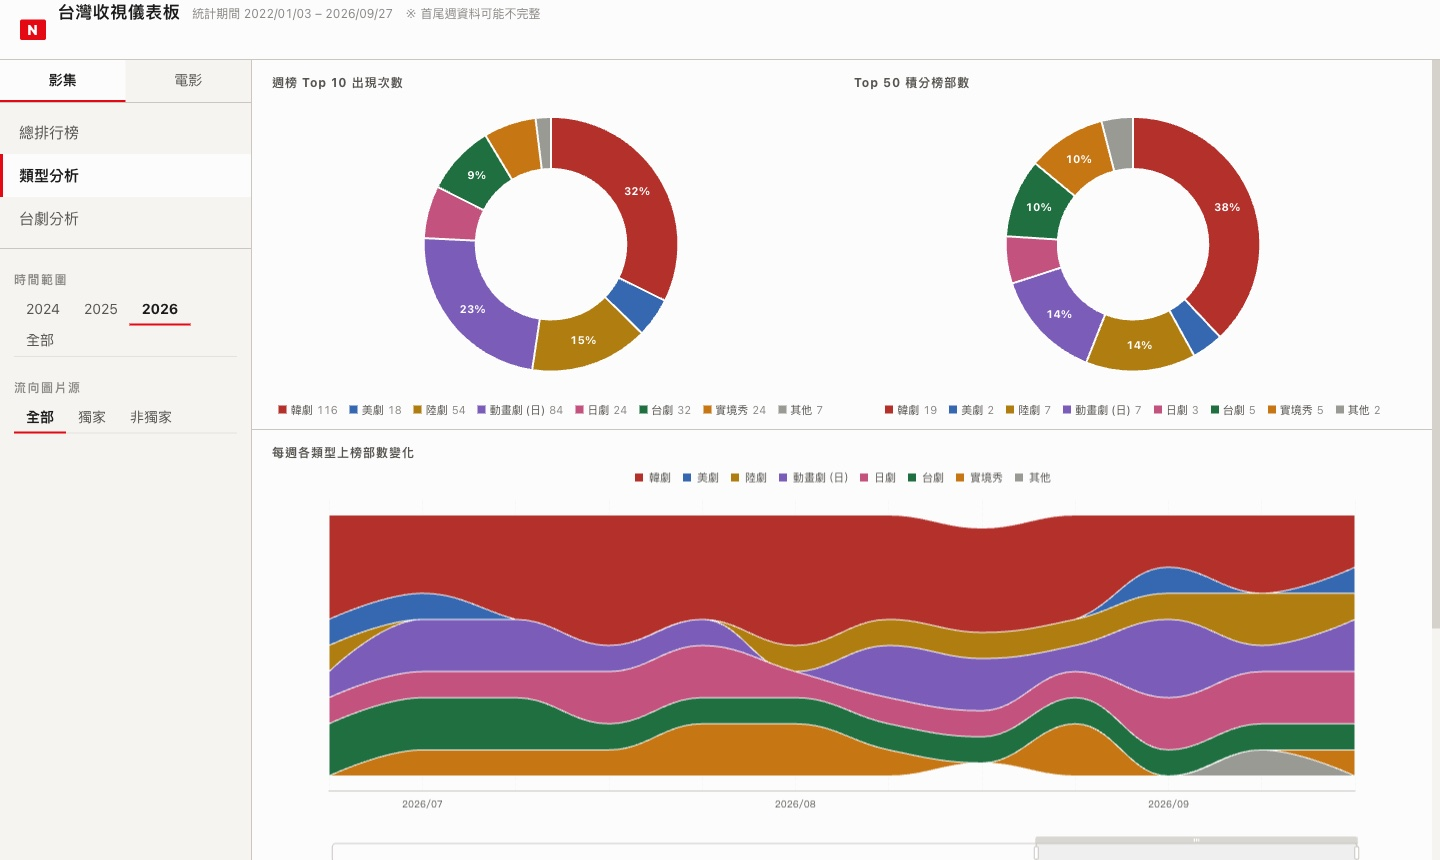
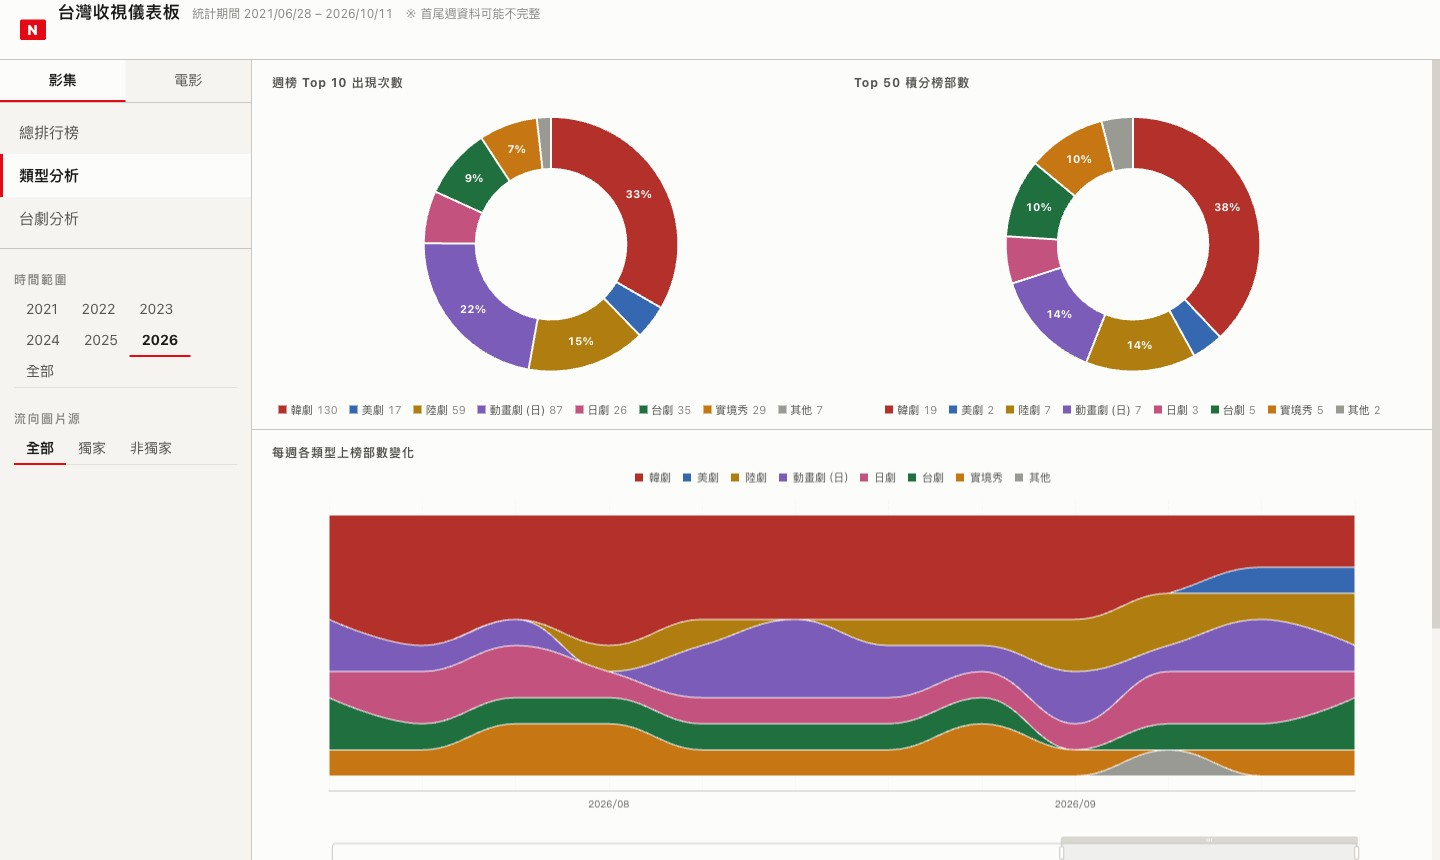
Update Netflix case to the new data pipeline
- Stats now from the pipeline output (through 2026-10-11, official weekly)
- Add evolution step 06 (Excel to data pipeline), update pipeline steps
- Taiwan trend fix is live: rewrite the data-quality case and mark it shipped
- Refresh dashboard screenshots; add TMDB API to tools

diff --git a/src/App.tsx b/src/App.tsx
@@ -64,22 +64,22 @@ const netflixDemoImages = {
 const netflixFacts: [string, string][] = [
   ['角色', '個人專案，負責資料來源判斷、爬蟲與資料管線、資料清理規則、儀表板需求與資訊設計'],
   ['期間', '源自彼此影業實習期間的內部需求；儀表板 2026 年 4 月開始開發，資料持續更新至 2026 年 10 月'],
-  ['工具', 'Python・Selenium・Excel・React・TypeScript・Recharts・ECharts・GitHub Actions・Claude Code'],
+  ['工具', 'Python・Selenium・TMDB API・Excel・React・TypeScript・Recharts・ECharts・GitHub Actions・Claude Code'],
   ['產出', '可公開瀏覽的互動儀表板、可重跑的資料轉換腳本與測試、各功能的設計規格文件'],
 ]
 
 const stats: [string, string][] = [
   ['2021–2026', '資料期間'],
-  ['1,791 天', '影集日榜'],
-  ['230 週', '影集週榜'],
-  ['834 部', '上榜影集'],
-  ['1,480 部', '上榜電影'],
-  ['102 部', '台劇追蹤'],
+  ['1,935 天', '每日排行'],
+  ['275 週', '官方週榜'],
+  ['855 部', '上榜影集'],
+  ['1,534 部', '上榜電影'],
+  ['95 部', '台灣節目'],
 ]
 
 const tldr: [string, string][] = [
   ['問題', 'Netflix 不保留歷史排行，公開資訊只散落在粉專貼文裡。單一節目的名次無法說明表現好壞，也沒有可以回頭比較的資料。'],
-  ['做法', '用爬蟲把五年多的貼文整理成日榜與週榜資料庫，訂出片名、類型與產地的清理規則，再把排名轉成積分，並用「上架後第 N 天」做比較基準。'],
+  ['做法', '把五年多的排行整理成日榜與週榜資料庫（週榜採 Netflix 官方 Top 10），訂出片名、類型與產地的清理規則，再把排名轉成積分，並用「上架後第 N 天」做比較基準。'],
   ['成果', '一個可依年份、類型、上架方式與片源篩選的互動儀表板，涵蓋影集與電影。整理出的排行資料已用於公司的節目結案報告。'],
 ]
 
@@ -89,13 +89,14 @@ const evolutionSteps: [string, string, string][] = [
   ['03', '擴展到年度週榜', '不同作品會受到同時期競爭環境影響，因此我開始蒐集全年度週榜資料，建立積分機制與年度收視排行榜。'],
   ['04', '建立互動儀表板', 'Excel 適合資料整理，但互動性不足，因此我用 Claude Code 協助實作 React 儀表板，讓資料能被直覺地探索。'],
   ['05', '回補歷史、加入電影', '把資料回補到 2021 年 4 月，並把一直有抓、卻沒用上的電影榜做成獨立頁面。電影汰換速度約是影集的兩倍，所以篩選維度另外設計，沒有直接沿用影集頁。'],
+  ['06', '從 Excel 換成資料管線', '2026 年 10 月把資料從 Excel 搬進以 JSON 為核心的資料管線：週榜改用 Netflix 官方 Top 10，每部作品有固定的編號並用 TMDB 查證。同一份資料同時供應儀表板與 Threads 帳號。'],
 ]
 
 const pipeline: [string, string, string][] = [
-  ['01', '粉專排行貼文', '原始資料是長期發布 Netflix 台灣排行的 Facebook 粉專貼文，格式不固定，同一部作品常有多種寫法。'],
+  ['01', '排行來源', '每日排行最早來自長期發布 Netflix 台灣排行的 Facebook 粉專貼文，格式不固定、同一部作品常有多種寫法；週榜改用 Netflix 官方 Top 10。'],
   ['02', 'Python 爬蟲', '用 Selenium 依日期區間分段抓取，加入進度監看、斷點續抓與原子寫入，讓長時間執行可以被觀察、中斷後能接續。'],
-  ['03', 'Excel 本地資料庫', '保留人工校正彈性：上架方式、集數、是否為 Netflix 獨家等爬蟲判斷不了的屬性，在這裡人工維護。'],
-  ['04', '轉換與驗證', 'Python 轉檔時統一處理片名、類型與產地規則，並做對帳檢查與單元測試，最後輸出前端讀取的 JSON。'],
+  ['03', '作品主檔', '早期用 Excel 人工維護上架方式、集數等屬性；現在每部作品有固定編號，片名變體、季別、產地都在主檔中處理，並以 TMDB 查證。'],
+  ['04', '驗證與輸出', '驗證不通過就不寫入；Python 依計算規則產生前端讀取的 JSON，規則都有單元測試。'],
   ['05', 'React 儀表板', '影集與電影兩條分析線，推送後由 GitHub Actions 自動建置並部署到 GitHub Pages。'],
 ]
 
@@ -123,15 +124,15 @@ const qualityCases: [string, string, string, string][] = [
   ],
   [
     '缺漏要被看見',
-    '電影週榜 2025 年只收錄到 15 週，同期影集週榜有 52 週，問題出在來源，不是爬蟲；早期日榜也有缺漏。',
-    '不補假資料，改成在介面上標示資料涵蓋範圍（例如「資料涵蓋 1794 / 2008 天」），避免使用者把 15 週算出的積分誤讀成全年。',
+    '舊來源的電影週榜 2025 年只收錄到 15 週，同期影集週榜有 52 週，問題出在來源，不是爬蟲；早期日榜也有缺漏。',
+    '不補假資料，改成在介面上標示每年的資料涵蓋天數，避免把不完整的期間誤讀成全年。之後週榜改用 Netflix 官方 Top 10 補齊；日榜經回補後，2021–2023 的缺漏從 247 天降到 78 天。',
     '已上線',
   ],
   [
     '台劇走勢的起點錯了',
-    '來源表的「上線天數」有 43% 為負值：錨點被設在最近一次回鍋上榜，而不是首播，走勢圖的斜率因此失真。',
-    '改以實際上榜日重新錨定。觀察相鄰上榜日間隔，分布呈雙峰（28 天與 33 天之間沒有資料），因此以 30 天為門檻切分檔期，回鍋段另外註記；季別歸屬則用查證過的上架日建表。',
-    '規格完成・實作中',
+    '線上的走勢圖出現第 −398 天：錨點被設在最近一次回鍋上榜，而不是首播。換成 TMDB 首播日後又發現另一個問題：TMDB 記的常是電視首播，《痞子英雄》會從第 4,803 天開始。',
+    '相鄰上榜日間隔呈雙峰（28 天與 33 天之間沒有資料），以 30 天切分檔期，只畫主檔期、再度上榜以文字註記；首播到第一次上榜的天數在 22 天與 43 天之間也沒有資料，所以首播日早 30 天以上就改用第一次上榜日。',
+    '已上線',
   ],
 ]
 
@@ -217,7 +218,7 @@ const impactItems: [string, string][] = [
   ['建立可維護流程', '爬蟲、轉檔、人工校正與前端展示拆成清楚步驟，每個功能先寫設計規格再實作，資料能持續更新。'],
 ]
 
-const techStack = ['Python', 'Selenium', 'pytest', 'Excel', 'JSON', 'React', 'TypeScript', 'Vite', 'Recharts', 'ECharts', 'GitHub Actions']
+const techStack = ['Python', 'Selenium', 'pytest', 'TMDB API', 'Excel', 'JSON', 'React', 'TypeScript', 'Vite', 'Recharts', 'ECharts', 'GitHub Actions']
 
 /* ============================================================
    共用元件
@@ -694,7 +695,7 @@ function NetflixCase() {
             <div className="prose">
               <h3 style={{ marginBottom: 16 }}>使用工具</h3>
               <div className="tagRow" style={{ marginBottom: 24 }}>{techStack.map(item => <span key={item}>{item}</span>)}</div>
-              <p className="muted" style={{ fontSize: 14 }}>下一步：上線台劇走勢的檔期重錨、把電影的「語言」維度更正為「產地」、資料每週自動更新、改善行動版瀏覽。</p>
+              <p className="muted" style={{ fontSize: 14 }}>下一步：把電影的「語言」維度更正為「產地」、公開版資料每週自動同步、改善行動版瀏覽。</p>
             </div>
           </div>
         </div>
